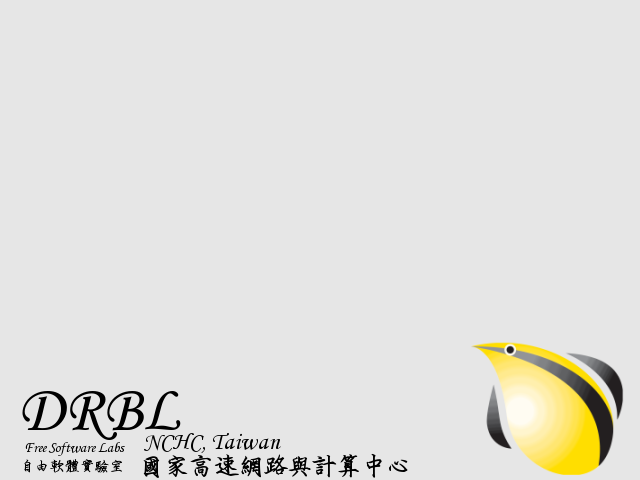
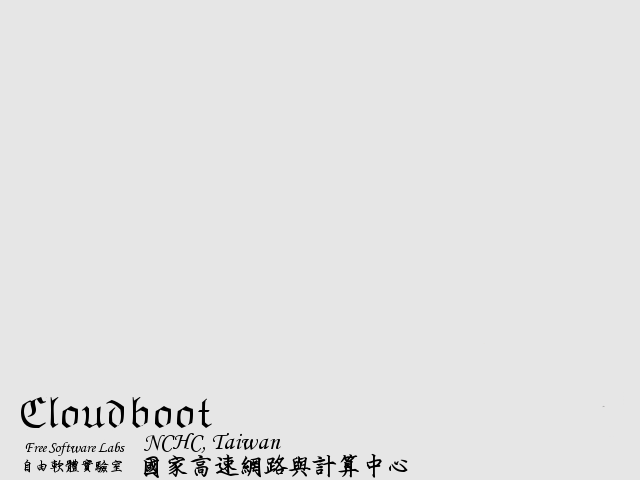
update some todo list, ip config

Changed region(s): [[0.75, 0.6875, 1.0, 1.0], [0.0312, 0.8125, 0.3438, 0.9375]]

diff --git a/functions.php b/functions.php
@@ -181,6 +181,7 @@ function append ( $append ) {
 
 function KernelArchMenu ( $bootcfg, $repository ) {
     global $kernel_param, $agent_url;
+    $ipxe_net = "eth0:140.110.240.46:255.255.255.0:140.110.240.254:8.8.8.8";
     $kernel_prefix_name = ScanKernel( $bootcfg );
     foreach ( $kernel_prefix_name as $name) {
 	$base_path	 = "http://$agent_url?mirror=$repository&type=kernel&proj=$bootcfg";
@@ -188,7 +189,7 @@ function KernelArchMenu ( $bootcfg, $repository ) {
 	$initrd		 = "$base_path&file=$name.initrd.img";
 	$filesystem	 = mapurl( $bootcfg, "kernel", $name, $repository, "1" ).".filesystem.squashfs";
 	$ipxe_net_config = $ipxe_net;
-	$append		 = "initrd=$initrd fetch=$filesystem ip=$ipxe_net_config $kernel_param[$bootcfg] toram";
+	$append		 = "initrd=$initrd fetch=$filesystem ip=$ipxe_net_config $kernel_param[$bootcfg] ethdevice=eth2,eth3 ethdevice-timeout=1";
 	label( $bootcfg );
 	menu( $bootcfg, $name );
 	kernel( $kernel );

diff --git a/BOOTMENU.php b/BOOTMENU.php
@@ -13,6 +13,7 @@ if ( $bootcfg == "selectmode" ) {
     foreach ( $menu as $proj_dist => $submenu ) {
 	foreach ( $submenu as $proj ) {
 	    $proj_menu = "$proj";
+	    echo "MENU BACKGROUND pxe/drblwp.png\n";
 	    echo "LABEL $proj_menu Cloud\n";
 	    echo "COM32 $pxe_vesamenu\n";
 	    echo "APPEND http://$local_url/$local_path/$boot_menu_path?boot=$proj_menu\n\n";
